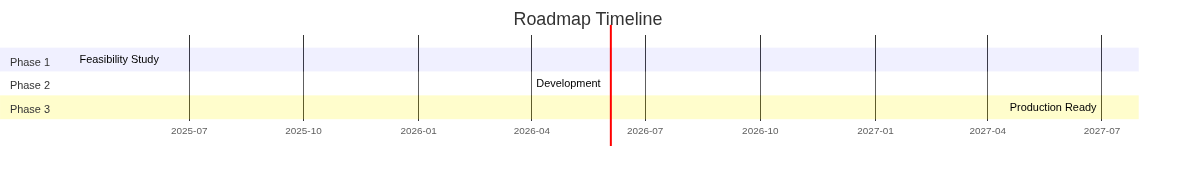
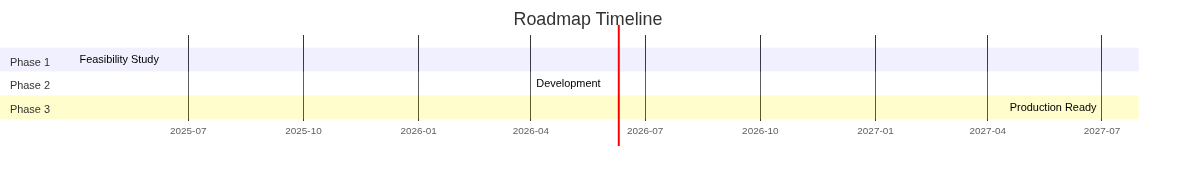
Add architecture diagram with Embedder API details; fix apostrophe rendering

Changed region(s): [[0.5, 0.1453, 0.5312, 0.843], [0.125, 0.7267, 0.1875, 0.7849], [0.4375, 0.7267, 0.4688, 0.7849]]

diff --git a/conferences/hdc26/presentation-openharmony-theme.md b/conferences/hdc26/presentation-openharmony-theme.md
@@ -99,13 +99,60 @@ th, td {
 | **C** | Flutter Engine + OpenHarmony Embedder (recommended) | Medium | Low |
 
 ---
+layout: two-cols
+---
 
-# Recommended Solution (Direction C)
+::title::
+# Recommended Solution: Architecture
 
-## Approach Overview
+::left::
+## Flutter Embedder API
 
-**OpenHarmony Flutter Embedder**  
-**Native API Bridge** → OpenHarmony Capabilities  
+The Embedder API defines a stable C interface between Flutter Engine and platform code. Only the Embedder layer varies per OS.
+
+| API | Purpose |
+|-----|---------|
+| `FlutterEngineRun(sz, config, user_data)` | Initialize and run the engine |
+| `FlutterEngineSendMessage(engine, msg)` | Send platform message to Dart |
+| `FlutterEngineRegisterExternalTexture(engine, id)` | Bind an external render surface |
+| `FlutterEngineDispatchPointerDataPacket(engine, pkt)` | Forward touch/pointer events to engine |
+
+::right::
+![Architecture Diagram](./images/architecture.png)
+
+<style>
+.col:last-child img {
+  max-height: 100%;
+  max-width: 100%;
+  object-fit: scale-down;
+}
+</style>
+
+---
+
+<style>
+table {
+  text-align: left !important;
+  width: 100%;
+}
+
+th, td {
+  text-align: left !important;
+  padding: 8px;
+  vertical-align: top;
+}
+</style>
+
+# Embedder API Across Platforms
+
+| Platform | Embedder | Render Surface | Input |
+|----------|----------|---------------|-------|
+| **Android** | JNI Embedder | SurfaceTexture | MotionEvent |
+| **Linux** | flutter-embedded-linux | EGL / Wayland | libinput |
+| **iOS** | UIKit Embedder | Metal CAMetalLayer | UIEvent |
+| **OpenHarmony** | Native OHOS Embedder | ArkUI Surface | OHOS Input Handler |
+
+The Embedder API interface is identical across platforms — only the platform-specific implementation behind it differs. OpenHarmony follows the same pattern as Android, iOS, and Linux.
 
 ---
 layout: two-cols
@@ -149,6 +196,19 @@ Flutter Engine + OpenHarmony Embedder approach:
 - **→** IoT and wearable devices
 
 ---
+
+<style>
+table {
+  text-align: left !important;
+  width: 100%;
+}
+
+th, td {
+  text-align: left !important;
+  padding: 8px;
+  vertical-align: top;
+}
+</style>
 
 # Roadmap
 
@@ -195,7 +255,7 @@ layout: two-cols
 ---
 
 ::title::
-# Linaro's Role — Community Bridge
+# Linaroʼs Role — Community Bridge
 
 ::left::
 ## Across the Open Source Ecosystem
@@ -221,7 +281,7 @@ layout: two-cols
 ---
 
 ::title::
-# Linaro's Role — Industry Mediator
+# Linaroʼs Role — Industry Mediator
 
 ::left::
 

diff --git a/conferences/hdc26/presentation.md b/conferences/hdc26/presentation.md
@@ -99,13 +99,60 @@ th, td {
 | **C** | Flutter Engine + OpenHarmony Embedder (recommended) | Medium | Low |
 
 ---
+layout: two-cols
+---
 
-# Recommended Solution (Direction C)
+::title::
+# Recommended Solution: Architecture
 
-## Approach Overview
+::left::
+## Flutter Embedder API
 
-**OpenHarmony Flutter Embedder**  
-**Native API Bridge** → OpenHarmony Capabilities  
+The Embedder API defines a stable C interface between Flutter Engine and platform code. Only the Embedder layer varies per OS.
+
+| API | Purpose |
+|-----|---------|
+| `FlutterEngineRun(sz, config, user_data)` | Initialize and run the engine |
+| `FlutterEngineSendMessage(engine, msg)` | Send platform message to Dart |
+| `FlutterEngineRegisterExternalTexture(engine, id)` | Bind an external render surface |
+| `FlutterEngineDispatchPointerDataPacket(engine, pkt)` | Forward touch/pointer events to engine |
+
+::right::
+![Architecture Diagram](./images/architecture.png)
+
+<style>
+.col:last-child img {
+  max-height: 100%;
+  max-width: 100%;
+  object-fit: scale-down;
+}
+</style>
+
+---
+
+<style>
+table {
+  text-align: left !important;
+  width: 100%;
+}
+
+th, td {
+  text-align: left !important;
+  padding: 8px;
+  vertical-align: top;
+}
+</style>
+
+# Embedder API Across Platforms
+
+| Platform | Embedder | Render Surface | Input |
+|----------|----------|---------------|-------|
+| **Android** | JNI Embedder | SurfaceTexture | MotionEvent |
+| **Linux** | flutter-embedded-linux | EGL / Wayland | libinput |
+| **iOS** | UIKit Embedder | Metal CAMetalLayer | UIEvent |
+| **OpenHarmony** | Native OHOS Embedder | ArkUI Surface | OHOS Input Handler |
+
+The Embedder API interface is identical across platforms — only the platform-specific implementation behind it differs. OpenHarmony follows the same pattern as Android, iOS, and Linux.
 
 ---
 layout: two-cols
@@ -149,6 +196,19 @@ Flutter Engine + OpenHarmony Embedder approach:
 - **→** IoT and wearable devices
 
 ---
+
+<style>
+table {
+  text-align: left !important;
+  width: 100%;
+}
+
+th, td {
+  text-align: left !important;
+  padding: 8px;
+  vertical-align: top;
+}
+</style>
 
 # Roadmap
 
@@ -195,7 +255,7 @@ layout: two-cols
 ---
 
 ::title::
-# Linaro's Role — Community Bridge
+# Linaroʼs Role — Community Bridge
 
 ::left::
 ## Across the Open Source Ecosystem
@@ -221,7 +281,7 @@ layout: two-cols
 ---
 
 ::title::
-# Linaro's Role — Industry Mediator
+# Linaroʼs Role — Industry Mediator
 
 ::left::
 

diff --git a/conferences/hdc26/presentation-openharmony-theme-zh.md b/conferences/hdc26/presentation-openharmony-theme-zh.md
@@ -100,13 +100,60 @@ th, td {
 | **C** | Flutter 引擎 + OpenHarmony Embedder（推荐） | 中 | 低 |
 
 ---
+layout: two-cols
+---
 
-# 推荐方案（方向 C）
+::title::
+# 推荐方案：架构
 
-## 方案概述
+::left::
+## Flutter Embedder API
 
-**OpenHarmony Flutter Embedder**  
-**原生 API 桥接** → OpenHarmony 能力  
+Embedder API 定义了 Flutter 引擎与平台代码之间稳定的 C 接口。各操作系统仅在 Embedder 层的实现上有所不同。
+
+| API | 用途 |
+|-----|------|
+| `FlutterEngineRun(sz, config, user_data)` | 初始化并运行引擎 |
+| `FlutterEngineSendMessage(engine, msg)` | 向 Dart 端发送平台消息 |
+| `FlutterEngineRegisterExternalTexture(engine, id)` | 绑定外部渲染表面 |
+| `FlutterEngineDispatchPointerDataPacket(engine, pkt)` | 转发触控/指针事件至引擎 |
+
+::right::
+![架构图](./images/architecture.png)
+
+<style>
+.col:last-child img {
+  max-height: 100%;
+  max-width: 100%;
+  object-fit: scale-down;
+}
+</style>
+
+---
+
+<style>
+table {
+  text-align: left !important;
+  width: 100%;
+}
+
+th, td {
+  text-align: left !important;
+  padding: 8px;
+  vertical-align: top;
+}
+</style>
+
+# 各平台的 Embedder API
+
+| 平台 | Embedder | 渲染表面 | 输入 |
+|------|----------|---------|------|
+| **Android** | JNI Embedder | SurfaceTexture | MotionEvent |
+| **Linux** | flutter-embedded-linux | EGL / Wayland | libinput |
+| **iOS** | UIKit Embedder | Metal CAMetalLayer | UIEvent |
+| **OpenHarmony** | 原生 OHOS Embedder | ArkUI 渲染表面 | OHOS 输入处理器 |
+
+Embedder API 接口在所有平台上是一致的——仅具体实现有所不同。OpenHarmony 沿用了与 Android、iOS、Linux 相同的模式。
 
 ---
 layout: two-cols
@@ -150,6 +197,19 @@ Flutter 引擎 + OpenHarmony Embedder：
 - **→** IoT 和可穿戴设备
 
 ---
+
+<style>
+table {
+  text-align: left !important;
+  width: 100%;
+}
+
+th, td {
+  text-align: left !important;
+  padding: 8px;
+  vertical-align: top;
+}
+</style>
 
 # 路线图
 

diff --git a/conferences/hdc26/presentation-zh.md b/conferences/hdc26/presentation-zh.md
@@ -108,13 +108,60 @@ th, td {
 | **C** | Flutter 引擎 + OpenHarmony Embedder（推荐） | 中 | 低 |
 
 ---
+layout: two-cols
+---
 
-# 推荐方案（方向 C）
+::title::
+# 推荐方案：架构
 
-## 方案概述
+::left::
+## Flutter Embedder API
 
-**OpenHarmony Flutter Embedder**  
-**原生 API 桥接** → OpenHarmony 能力  
+Embedder API 定义了 Flutter 引擎与平台代码之间稳定的 C 接口。各操作系统仅在 Embedder 层的实现上有所不同。
+
+| API | 用途 |
+|-----|------|
+| `FlutterEngineRun(sz, config, user_data)` | 初始化并运行引擎 |
+| `FlutterEngineSendMessage(engine, msg)` | 向 Dart 端发送平台消息 |
+| `FlutterEngineRegisterExternalTexture(engine, id)` | 绑定外部渲染表面 |
+| `FlutterEngineDispatchPointerDataPacket(engine, pkt)` | 转发触控/指针事件至引擎 |
+
+::right::
+![架构图](./images/architecture.png)
+
+<style>
+.col:last-child img {
+  max-height: 100%;
+  max-width: 100%;
+  object-fit: scale-down;
+}
+</style>
+
+---
+
+<style>
+table {
+  text-align: left !important;
+  width: 100%;
+}
+
+th, td {
+  text-align: left !important;
+  padding: 8px;
+  vertical-align: top;
+}
+</style>
+
+# 各平台的 Embedder API
+
+| 平台 | Embedder | 渲染表面 | 输入 |
+|------|----------|---------|------|
+| **Android** | JNI Embedder | SurfaceTexture | MotionEvent |
+| **Linux** | flutter-embedded-linux | EGL / Wayland | libinput |
+| **iOS** | UIKit Embedder | Metal CAMetalLayer | UIEvent |
+| **OpenHarmony** | 原生 OHOS Embedder | ArkUI 渲染表面 | OHOS 输入处理器 |
+
+Embedder API 接口在所有平台上是一致的——仅具体实现有所不同。OpenHarmony 沿用了与 Android、iOS、Linux 相同的模式。
 
 ---
 layout: two-cols
@@ -158,6 +205,19 @@ Flutter 引擎 + OpenHarmony Embedder：
 - **→** IoT 和可穿戴设备
 
 ---
+
+<style>
+table {
+  text-align: left !important;
+  width: 100%;
+}
+
+th, td {
+  text-align: left !important;
+  padding: 8px;
+  vertical-align: top;
+}
+</style>
 
 # 路线图
 
